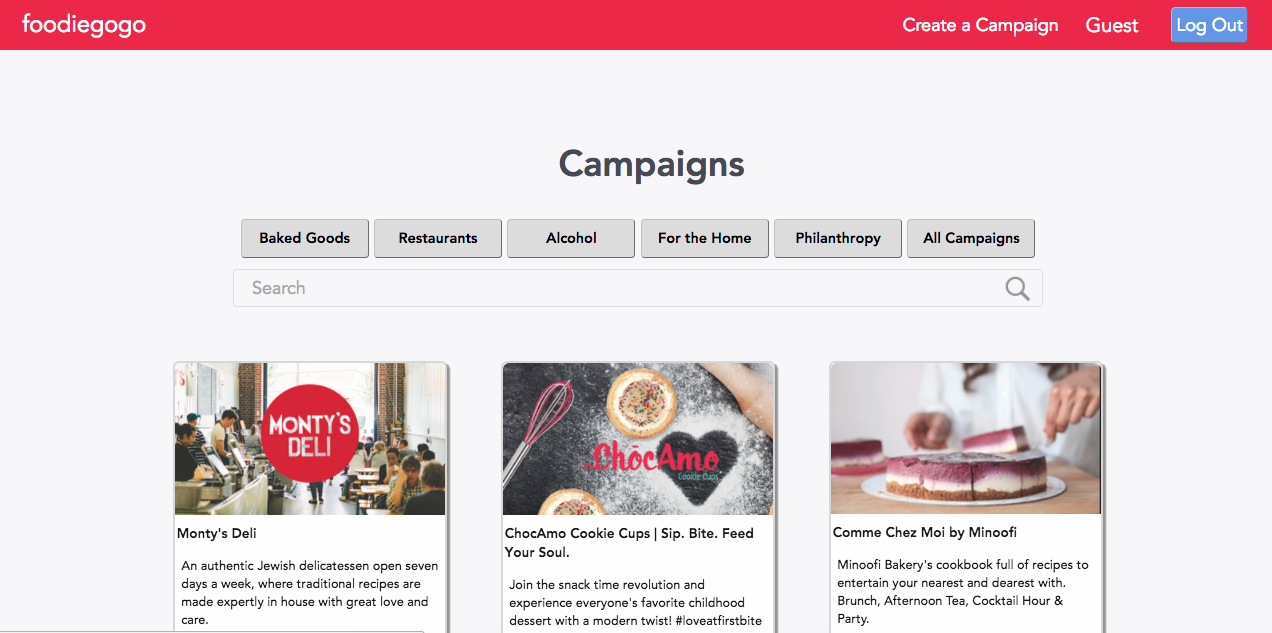
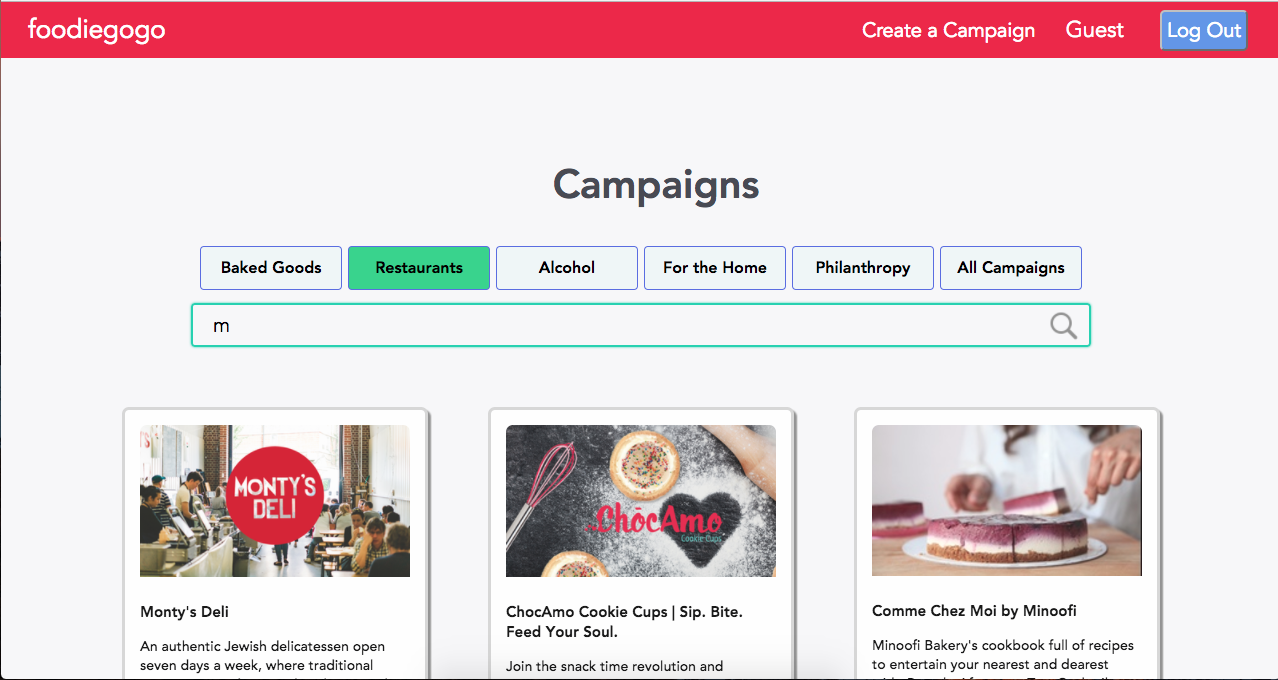
clean up styling

diff --git a/frontend/components/campaigns/campaign_show.jsx b/frontend/components/campaigns/campaign_show.jsx
@@ -29,9 +29,9 @@ class CampaignShow extends React.Component {
     this.setState({modalOpen: true});
   }
 
-  // this.props.fetchCampaigns(this.props.params.campaignId);
   // this.props.fetchCampaign();
   componentDidMount() {
+    this.props.fetchCampaigns(this.props.params.campaignId);
     this.props.fetchPerks(this.props.params.campaignId);
     this.props.fetchContributions(this.props.params.campaignId);
     window.scrollTo(0, 0);
@@ -107,10 +107,10 @@ class CampaignShow extends React.Component {
             <Modal
               isOpen={this.state.modalOpen}
               onRequestClose={this.onModalClose.bind(this)}
-              style={ModalStyle}>
+              className="perkmodal">
                 <h2>Are you sure you want to delete this campaign?</h2>
-                <button className="formbutton" onClick={this.handleDelete.bind(this, this.props.campaign.id)}>Yes</button>
-            </Modal>
+                <input className="formbutton" type="submit" value="Yes" onClick={this.handleDelete.bind(this, this.props.campaign.id)}/>
+          </Modal>
           </div>:
             <div></div>}
         <div className="show">

diff --git a/app/assets/stylesheets/components/campaigns.scss b/app/assets/stylesheets/components/campaigns.scss
@@ -32,19 +32,17 @@
 }
 
 .createcampaign {
-  height: 470px;
+  height: auto;
 }
 
 
 .campaignform ul {
   border: 1px solid gray;
   padding: 30px;
-  position: absolute;
   width:465px;
-  top: -10px;
+  position: absolute;
+  top: 30px;
   background-color: #f7f7f7;
-  right: -50px;
-  top: 20px;
 }
 
 .campaignform {
@@ -101,19 +99,20 @@ border: 2px solid #43D1AF;}
   font-size: 16px;
   padding: 10px;
   margin: 3px;
-  background-color: #e0f2f5;
+  background-color: #eff6f7;
   color: black;
   width: 120px;
   text-align: center;
   border-radius: 4px;
   font-weight: 600;
+  border: 1px solid #586BE9;
 }
 
 .categories button:focus {
   font-size: 16px;
   padding: 10px;
   margin: 3px;
-  background-color: #a4e1ea;
+  background-color: rgba(37, 203, 104, 0.8);
   color: black;
   width: 120px;
   text-align: center;
@@ -124,6 +123,7 @@ border: 2px solid #43D1AF;}
 .categories button:hover {
   opacity: 1.6;
   transform: scale(1.04);
+  background-color: rgba(37, 203, 104, 0.8);
 
 }
 .campaignitem {

diff --git a/frontend/components/campaigns/campaign_form.jsx b/frontend/components/campaigns/campaign_form.jsx
@@ -74,9 +74,9 @@ class CampaignForm extends React.Component {
     }
   }
 
+  // const backLink = this.props.route.path === 'campaigns/new' ? <Link to="/campaigns">All Campaigns</Link> :
   render () {
     const text = this.props.route.path === 'campaigns/new' ? "Create A Campaign" : "Update A Campaign";
-    const backLink = this.props.route.path === 'campaigns/new' ? <Link to="/campaigns">All Campaigns</Link> :
     <Link to={"/campaigns/" + this.props.params.campaignId}>Back</Link>;
     return (
       <div className="campaignBackground">
@@ -129,7 +129,6 @@ class CampaignForm extends React.Component {
           <h4 className="errors"> {this.renderErrors()} </h4>
           <input className="formbutton" type="submit" value="Submit"/>
           <li>
-          {backLink}
           </li>
         </ul>
         </form>
@@ -137,5 +136,6 @@ class CampaignForm extends React.Component {
     );
   }
 }
+// {backLink}
 
 export default CampaignForm;

diff --git a/app/assets/stylesheets/components/_campaignform.scss b/app/assets/stylesheets/components/_campaignform.scss
@@ -28,7 +28,6 @@
     -moz-box-sizing: border-box;
     width: 100%;
     background: #fff;
-    margin-bottom: 2%;
     border: 1px solid #ccc;
     padding: 2%;
     color: #555;
@@ -74,10 +73,10 @@
 .campaignform {
     font: 95% avenir;
     margin: 10px auto;
-    padding: 20px;
     background: #F7F7F7;
-    max-width: 460px;
-
+    max-width: 480px;
+    display: flex;
+    justify-content: center;
 }
 .campaignform h1 {
     background: white;
@@ -110,10 +109,10 @@
     -moz-box-sizing: border-box;
     width: 100%;
     background: #fff;
-    margin-bottom: 4%;
     border: 1px solid #ccc;
     color: #555;
     font: 95% Arial, avenir, sans-serif;
+    margin-bottom: 1.5%;
 }
 
 .campaignform input[type="text"]:focus,

diff --git a/frontend/components/perks/perk_index_item.jsx b/frontend/components/perks/perk_index_item.jsx
@@ -1,7 +1,6 @@
 import React from 'react';
 import { Link, hashHistory } from 'react-router';
 import Modal from 'react-modal';
-import ModalStyle from './../session/modal_style';
 import ContributionFormContainer from './../contributions/contribution_form_container.js';
 
 
@@ -39,14 +38,14 @@ class PerkIndexItem extends React.Component {
         <Modal
           isOpen={this.state.modalOpen}
           onRequestClose={this.onModalClose.bind(this)}
-          style={ModalStyle}>
+          className="perkmodal">
           <ContributionFormContainer perkKey={this.props.perkKey} campaign={this.props.campaign}/>
         </Modal>
       </div>
       </div>);
   }
-}
 
+}
 
 
 

diff --git a/frontend/components/campaigns/campaign_index.jsx b/frontend/components/campaigns/campaign_index.jsx
@@ -8,11 +8,12 @@ class CampaignIndex extends React.Component {
     super(props);
   }
 
+
   render() {
     return <div>
       <h1 className="header">Campaigns</h1>
       <div className="categories">
-        <button onClick={this.props.applyFilter(BAKED_GOODS)}> Baked Goods </button>
+        <button onClick={this.props.applyFilter(BAKED_GOODS)} > Baked Goods </button>
         <button onClick={this.props.applyFilter(RESTAURANT)}> Restaurants </button>
         <button onClick={this.props.applyFilter(ALCOHOLIC)}> Alcohol </button>
         <button onClick={this.props.applyFilter(FOR_THE_HOME)}> For the Home </button>

diff --git a/app/assets/stylesheets/components/_sessionform.scss b/app/assets/stylesheets/components/_sessionform.scss
@@ -10,8 +10,24 @@
   align-items: center;
 }
 
-.ReactModal__Content--after-open session {
-  height: 800px;
+.perkmodal {
+    padding: 15px 10px;
+    width: 250px;
+    position: relative;
+    top: 220px;
+    border: 1px solid #586BE9;
+    border-radius: 7px;
+    background-color: #F8F9FD;
+    font-weight: 400;
+    display: flex;
+    flex-direction: column;
+    align-items: center;
+    justify-content: center;
+    text-align: center;
+}
+
+.perkmodal h2 {
+  padding: 20px 70px;
 }
 
 .login-form-box {

diff --git a/frontend/components/session/modal_style.js b/frontend/components/session/modal_style.js
@@ -9,10 +9,9 @@ module.exports = {
   },
   content : {
     position                   : 'absolute',
-    top                        : '25px',
     left                       : '40px',
     right                      : '40px',
-    bottom                     : '40px',
+    bottom                     : '50px',
     border                     : '1px solid #ccc',
     background                 : '#fff',
     overflow                   : 'auto',

diff --git a/frontend/components/perks/perk_form.jsx b/frontend/components/perks/perk_form.jsx
@@ -48,7 +48,7 @@ class PerkForm extends React.Component {
   render () {
     const text = this.props.route.path === 'campaigns/:campaignId/perk/new' ? "Create A Perk" : "Update A Perk";
     return (
-      <div>
+      <div className="campaignBackground">
         <form className="campaignform" onSubmit={this.handleSubmit}>
         <ul>
         <h1>{text}</h1>

diff --git a/app/assets/stylesheets/base/layout.scss b/app/assets/stylesheets/base/layout.scss
@@ -119,6 +119,7 @@ button:hover {
 	border-top-style: none;
 	border-right-style: none;
 	border-left-style: none;
+	margin-top: 5px;
 }
 .uploadbutton:hover {
 	background-color: #3d79e5;

diff --git a/app/assets/stylesheets/components/_perk.scss b/app/assets/stylesheets/components/_perk.scss
@@ -3,6 +3,7 @@
   margin: 30px 0 0 60px;
   width: 250px;
   height: auto;
+  line-height: auto;
   border: 1px solid #586BE9;
   border-radius: 7px;
   background-color: #F8F9FD;
